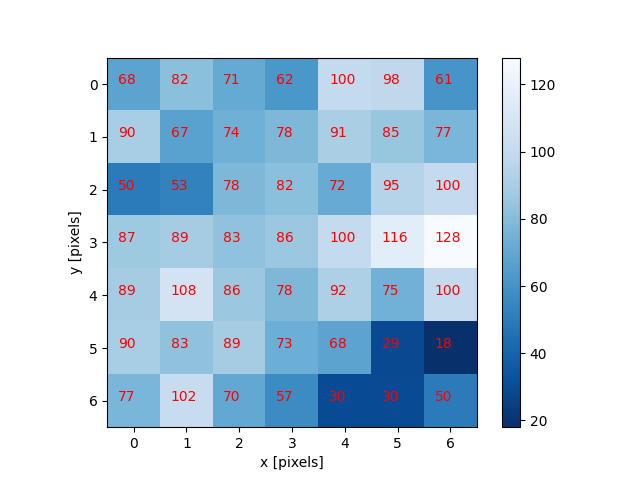
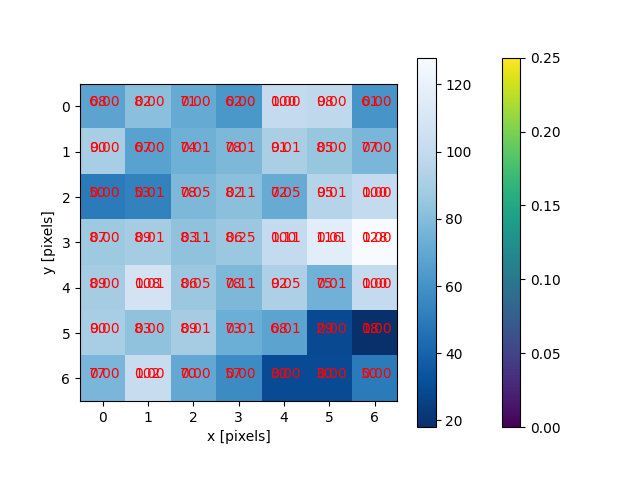
combine figure making scripts

diff --git a/code/06-blurring/make_figures.py b/code/06-blurring/make_figures.py
@@ -1,0 +1,78 @@
+"""
+ * Python script to figures for lesson 6.
+ * Intended for lesson maintainers use only.
+ *
+ * usage: python make_figures.py
+"""
+
+from astropy.convolution import Gaussian2DKernel
+import matplotlib.pyplot as plt
+import numpy as np
+
+# Make a Gaussian kernel image
+# Outputs to `./fig/06_Gaussian_kernel.png`
+
+# Create an array containing the evalusation of a 
+# Gaussian function with a standard deviation of 0.8
+z = np.array(Gaussian2DKernel(0.8))
+
+# Create co-ordinate matricies for x and y
+x, y = np.meshgrid(np.arange(0, z.shape[0]), np.arange(0, z.shape[1]))
+
+# Create vectors representations of x, y and z
+x_long = np.reshape(x, z.shape[0]*z.shape[1])
+y_long = np.reshape(y, z.shape[0]*z.shape[1])
+z_long = np.reshape(z, z.shape[0]*z.shape[1])
+
+# Plot the kernel as an image
+plt.imshow(z, interpolation='none', origin='upper', vmin=0, vmax=0.25)
+
+# Label each pixel with it's z value (the kernel evaluated at that point)
+for i, label in enumerate(z_long):
+    plt.text(x_long[i]-0.3, y_long[i], "{:.2f}".format(label), color='Red')
+
+# Label axes
+plt.xlabel('x [pixels]')
+plt.ylabel('y [pixels]')
+plt.colorbar()
+
+# Save image
+plt.savefig('./fig/06_Gaussian_kernel.png')
+
+# Create an image file based 
+# on a hard-coded matrix representing the blue 
+# channel of the corner of the cat image used 
+# in this lesson.
+# Outputs to `./fig/06_cat_corner_blue.png`
+
+# Hard-coded array taken from lesson text
+z = np.array(   [[68,  82, 71, 62, 100,  98,  61],
+                [90,  67, 74, 78,  91,  85,  77,],
+                [50,  53, 78, 82,  72,  95, 100,],
+                [87,  89, 83, 86, 100, 116, 128,],
+                [89, 108, 86, 78,  92,  75, 100,],
+                [90,  83, 89, 73,  68,  29,  18,],
+                [77, 102, 70, 57,  30,  30,  50,]])
+
+# Create co-ordinate matricies for x and y
+x, y = np.meshgrid(np.arange(0, z.shape[0]), np.arange(0, z.shape[1]))
+
+# Create vectors representations of x, y and z
+x_long = np.reshape(x, z.shape[0]*z.shape[1])
+y_long = np.reshape(y, z.shape[0]*z.shape[1])
+z_long = np.reshape(z, z.shape[0]*z.shape[1])
+
+# Plot the data as an image
+plt.imshow(z, interpolation='none', origin='upper', cmap='Blues_r')
+
+# Label each pixel with it's z value
+for i, label in enumerate(z_long):
+    plt.text(x_long[i]-0.3, y_long[i], label, color='Red')
+
+# Label axes
+plt.xlabel('x [pixels]')
+plt.ylabel('y [pixels]')
+plt.colorbar()
+
+# Save image
+plt.savefig('./fig/06_cat_corner_blue.png')
